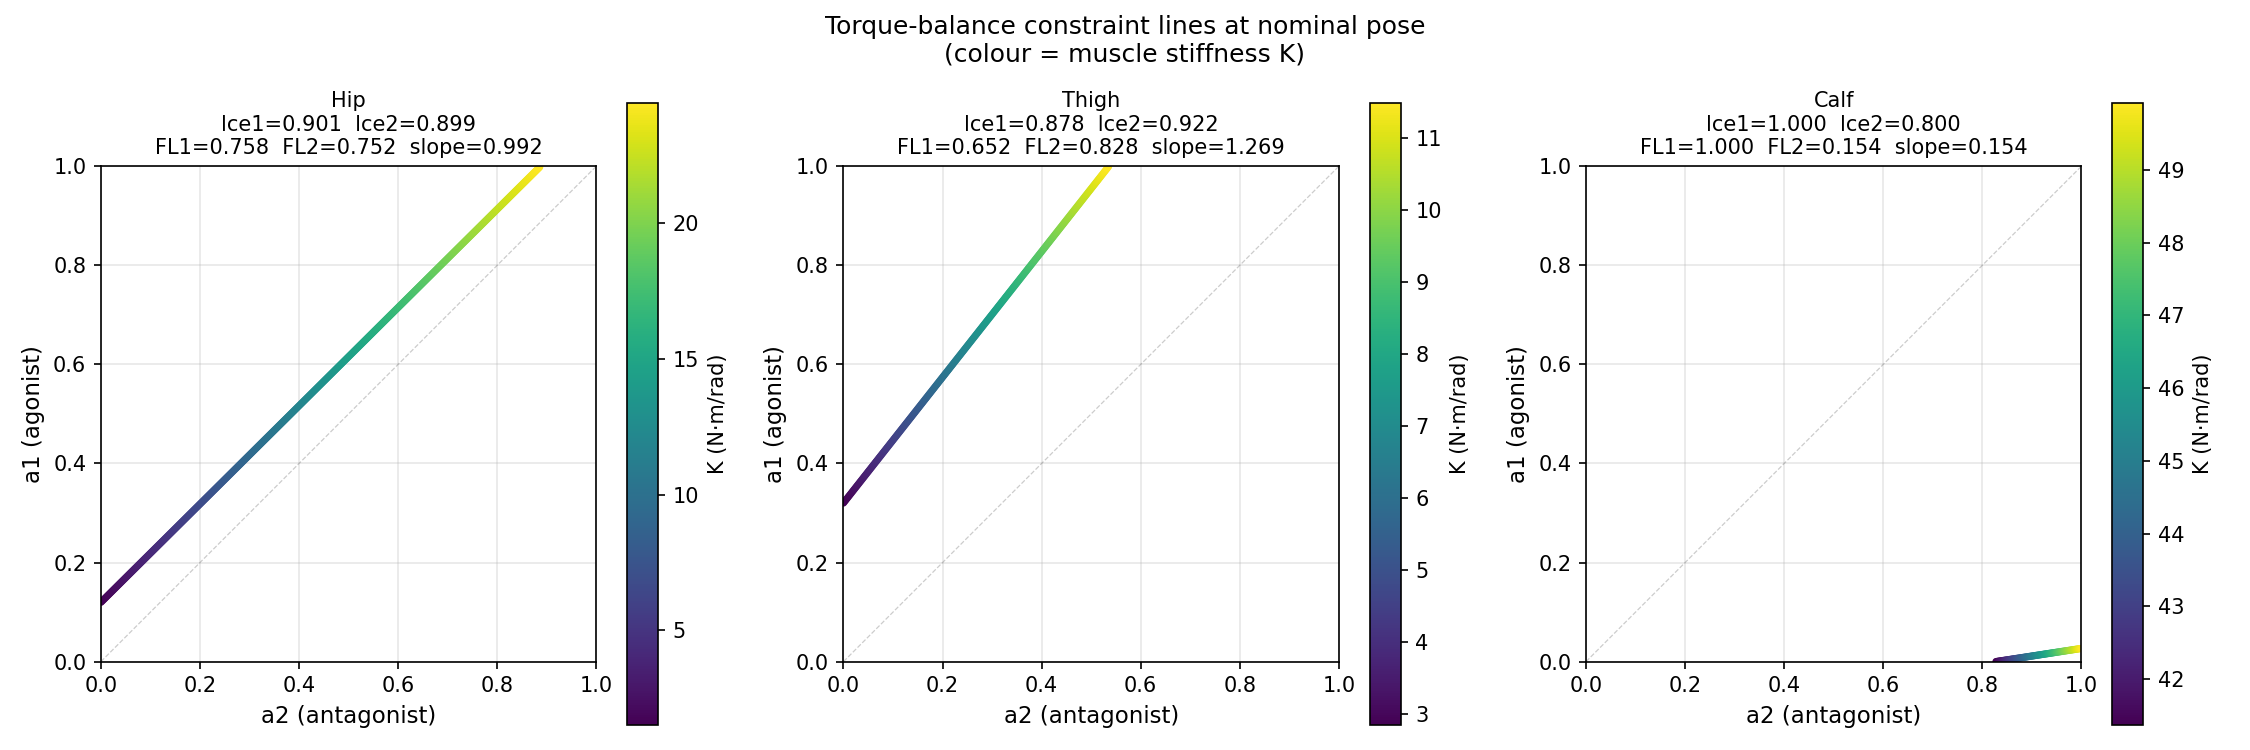
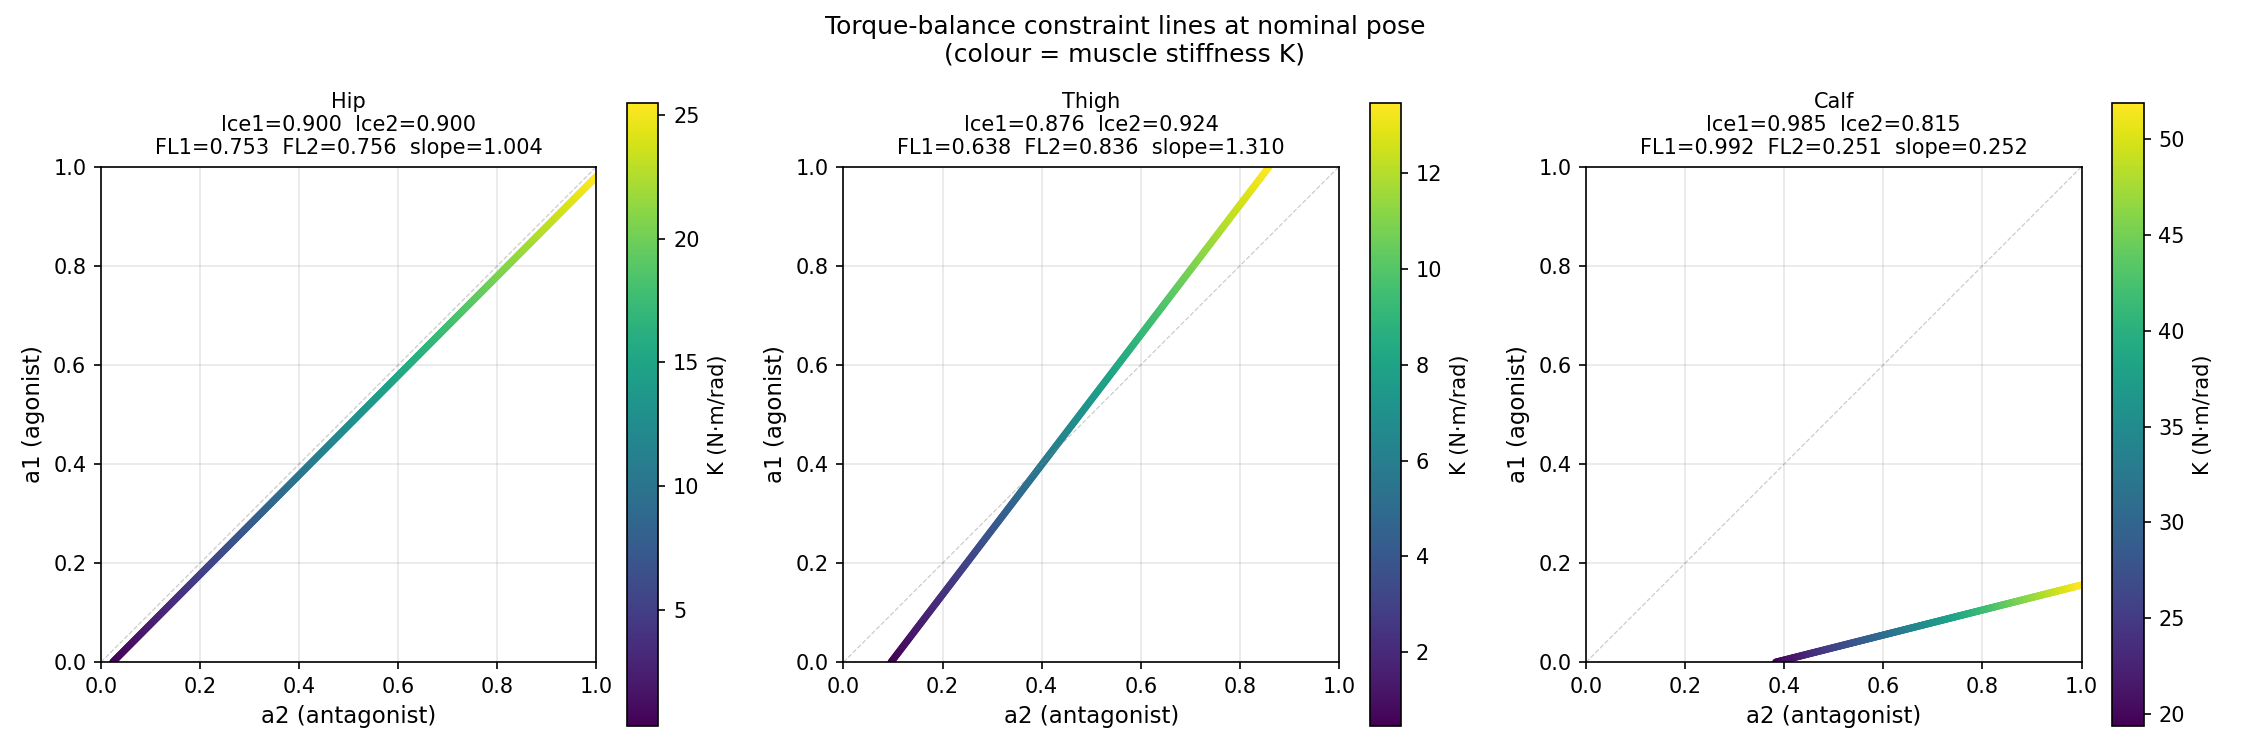
successfully generates a constraint line of activation signals that will allow the robot to maintain the standing pose

diff --git a/analysis/unit_tests/plot_stiffness_cocontraction.py b/analysis/unit_tests/plot_stiffness_cocontraction.py
@@ -110,24 +110,36 @@ def joint_stiffness(q, a1, a2, j, eps=1e-4):
     """Numerical muscle stiffness K = -dtau/dq at dq=0 (N·m/rad)."""
     return -(net_torque(q + eps, 0.0, a1, a2, j) - net_torque(q - eps, 0.0, a1, a2, j)) / (2.0 * eps)
 
-# ── required joint torques — contact-aware standing on ground ─────────────────
-# The robot's feet are constrained to the floor. At static equilibrium:
-#   qfrc_actuator = qfrc_bias - qfrc_constraint
-# qfrc_bias alone (floating) only captures distal-segment gravity (~0.3 N·m).
-# qfrc_constraint carries the contact forces projected to joint DOFs, which load
-# the calf joints significantly when supporting the full body weight.
+# ── required joint torques — simulate stand_go2.cpp PD stand-up ──────────────
+# A single mj_forward at nominal_pose gives wrong contact forces (no dynamic
+# contact buildup). Instead, replicate the stand_go2.cpp stand-up procedure so
+# contact forces develop naturally, then read equilibrium torques at steady state.
 model = mujoco.MjModel.from_xml_path(MODEL_PATH)
 data  = mujoco.MjData(model)
 
+# ctrl[] order is FR→FL→RR→RL (tasks.yaml / actuator order), but the model's
+# joint body-tree order is FL→FR→RL→RR.  Use model.actuator_trnid to get the
+# correct qpos/qvel address for each actuator rather than assuming 7+i.
+_jid     = [model.actuator_trnid[i, 0] for i in range(12)]
+_qa_adr  = [model.jnt_qposadr[j] for j in _jid]   # qpos index per actuator
+_dof_adr = [model.jnt_dofadr[j]  for j in _jid]   # qvel/qfrc index per actuator
+
+_yaml_nominal  = list(stand["nominal_pose"])        # save YAML values for comparison
+stand_up_pos   = list(_yaml_nominal)
+stand_down_pos = [ 0.0473455,  1.22187, -2.44375,
+                  -0.0473455,  1.22187, -2.44375,
+                   0.0473455,  1.22187, -2.44375,
+                  -0.0473455,  1.22187, -2.44375]
+
+# Place robot at stand_down_pos, feet flush with ground plane.
 data.qpos[:] = 0.0
-data.qpos[2] = 0.39
+data.qpos[2] = 0.5
 data.qpos[3] = 1.0
 for i in range(12):
-    data.qpos[7 + i] = nominal_pose[i]
+    data.qpos[_qa_adr[i]] = stand_down_pos[i]
 data.qvel[:] = 0.0
 mujoco.mj_forward(model, data)
 
-# Lower body so the lowest foot is flush with z=0 (ground plane).
 _foot_bids = [mujoco.mj_name2id(model, mujoco.mjtObj.mjOBJ_BODY, n)
               for n in ('FR_foot', 'FL_foot', 'RR_foot', 'RL_foot')]
 _foot_bids = [b for b in _foot_bids if b >= 0]
@@ -135,17 +147,44 @@ if _foot_bids:
     data.qpos[2] -= min(data.xpos[b, 2] for b in _foot_bids)
     mujoco.mj_forward(model, data)
 
-print(f"Body height: {data.qpos[2]:.4f} m  |  Active contacts: {data.ncon}")
+# Phase 1 (0-3 s): tanh stand-up, kp 20→50, kd=3.5  — identical to stand_go2.cpp.
+# Phase 2 (3-5 s): hold at stand_up_pos with kp=50 to settle to equilibrium.
+dt_sim  = 0.002
+kd_pd   = 3.5
+n_steps = int(5.0 / dt_sim)
+t       = 0.0
 
-tau_grav_all = (data.qfrc_bias[6:18] - data.qfrc_constraint[6:18]).copy()
+for _ in range(n_steps):
+    t += dt_sim
+    if t < 3.0:
+        phase = np.tanh(t / 1.2)
+        kp    = phase * 50.0 + (1.0 - phase) * 20.0
+    else:
+        phase = 1.0
+        kp    = 50.0
+    for i in range(12):
+        q_des = phase * stand_up_pos[i] + (1.0 - phase) * stand_down_pos[i]
+        data.ctrl[i] = kp * (q_des - data.qpos[_qa_adr[i]]) + kd_pd * (-data.qvel[_dof_adr[i]])
+    mujoco.mj_step(model, data)
+
+print(f"Steady-state body height: {data.qpos[2]:.4f} m  |  "
+      f"Max |dq|: {np.max(np.abs(data.qvel[6:18])):.5f} rad/s  |  "
+      f"Contacts: {data.ncon}")
+
+# Equilibrium torques in tasks.yaml / ctrl order (FR→FL→RR→RL).
+tau_grav_all = np.array([data.qfrc_bias[_dof_adr[i]] - data.qfrc_constraint[_dof_adr[i]]
+                         for i in range(12)])
+
+# Actual standing pose in tasks.yaml / ctrl order.
+nominal_pose = [data.qpos[_qa_adr[i]] for i in range(12)]
 
 _labels = ["FR_hip","FR_thigh","FR_calf",
            "FL_hip","FL_thigh","FL_calf",
            "RR_hip","RR_thigh","RR_calf",
            "RL_hip","RL_thigh","RL_calf"]
-print("Required joint torques at nominal standing pose (N·m):")
-for lbl, tg in zip(_labels, tau_grav_all):
-    print(f"  {lbl:12s}: {tg:+.4f}")
+print("Steady-state joint torques (N·m)  |  sim pose vs tasks.yaml nominal_pose (Δ rad):")
+for lbl, tg, qs, qn in zip(_labels, tau_grav_all, nominal_pose, _yaml_nominal):
+    print(f"  {lbl:12s}: tau={tg:+.4f}  sim={qs:+.5f}  yaml={qn:+.5f}  Δ={qs-qn:+.5f}")
 
 tau_grav = tau_grav_all[:3]   # FR leg is representative
 
